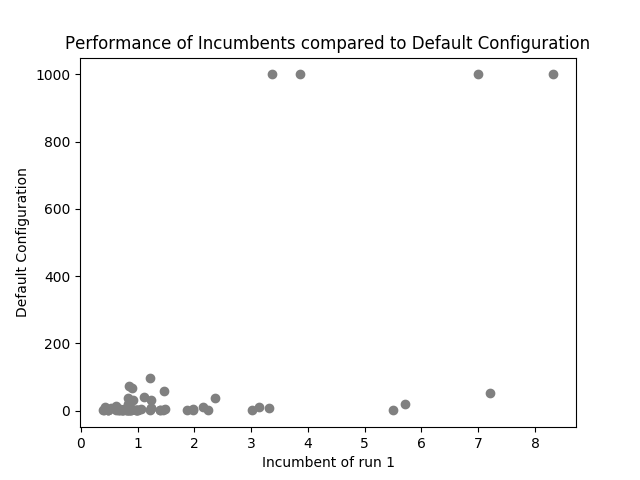
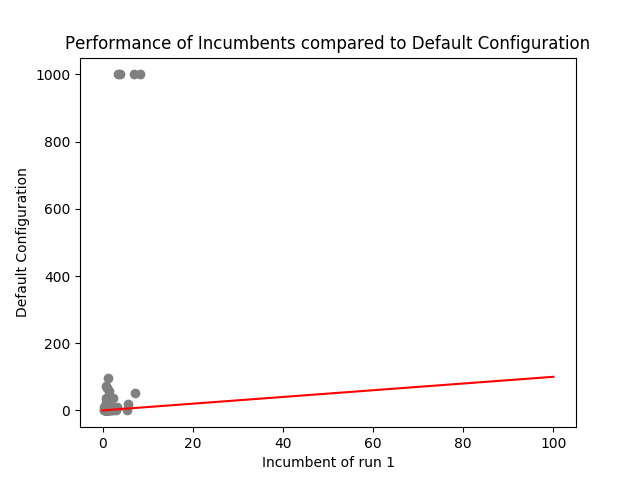
Added plot

diff --git a/Exercise2/lpg_depots/validate/plot_validation_1.py b/Exercise2/lpg_depots/validate/plot_validation_1.py
@@ -29,9 +29,7 @@ def main():
         else:
             cost_incumbent.append(z_)
     plt.plot(cost_incumbent,cost_default,'ro', color="gray")
-
-    x = numpy.linspace(0,max(max(cost_incumbent),max(cost_default)),0.1)
-    #plt.plot(x,x,'k',color="red")
+    plt.plot([0,100],[0,100],'k',color="red")
     plt.ylabel("Default Configuration")
     plt.xlabel("Incumbent of run 1")
     plt.title("Performance of Incumbents compared to Default Configuration")
